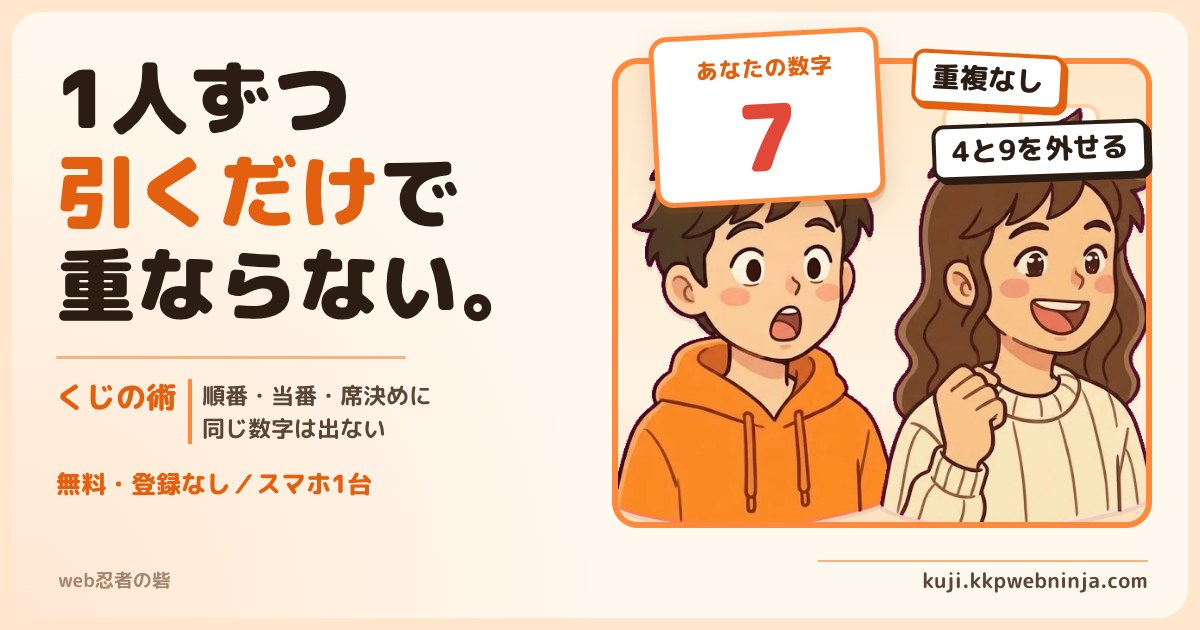
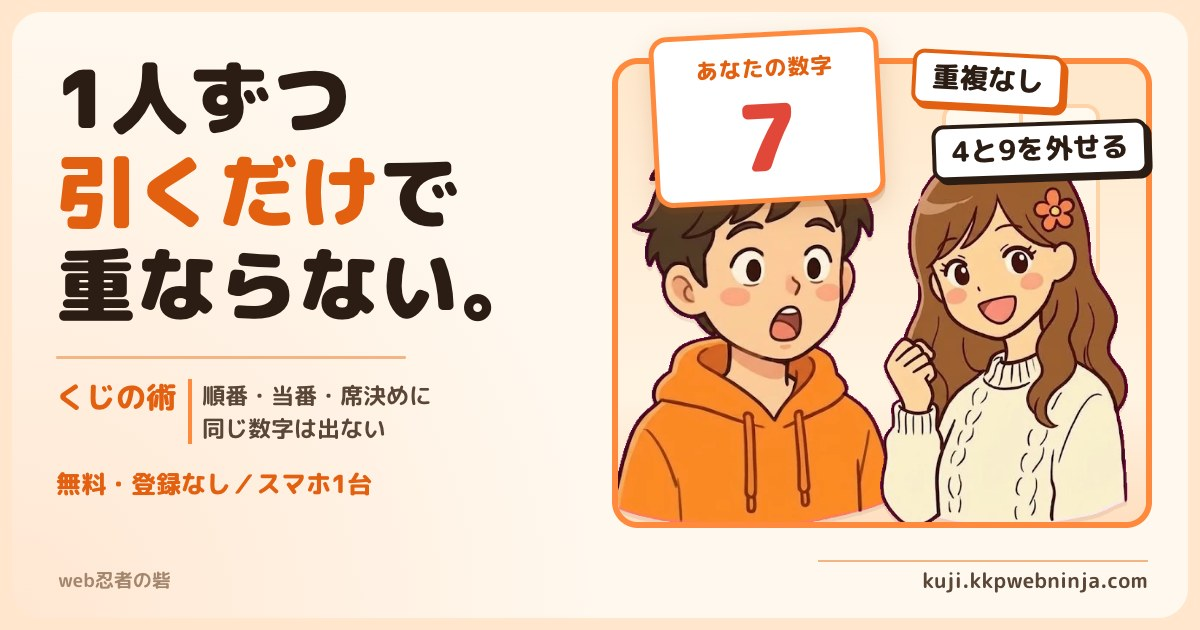
カード画像（OGP）の女の子を、ひと目で女の子と分かる絵に差し替える
男の子と同じ顔に見えていたため、kkp-kit の女の子の素材を作り直して書き出し直した（kkp-kit 978018e）。
og:image・twitter:image の ?d= を 20261023 にして、SNS に新しい画像を読み直させる。

Changed region(s): [[0.7092, 0.2714, 0.9558, 0.8444], [0.8633, 0.181, 0.8942, 0.2111]]

diff --git a/index.html b/index.html
@@ -16,9 +16,9 @@
 <meta property="og:description" content="人数を決めて、あとは1人ずつ引くだけ。同じ数字は出ません。">
 <meta property="og:url" content="https://kuji.kkpwebninja.com/">
 <meta property="og:site_name" content="くじの術">
-<meta property="og:image" content="https://kuji.kkpwebninja.com/ogp.jpg?d=20261022">
+<meta property="og:image" content="https://kuji.kkpwebninja.com/ogp.jpg?d=20261023">
 <meta name="twitter:card" content="summary_large_image">
-<meta name="twitter:image" content="https://kuji.kkpwebninja.com/ogp.jpg?d=20261022">
+<meta name="twitter:image" content="https://kuji.kkpwebninja.com/ogp.jpg?d=20261023">
 <script type="application/ld+json">
 {
   "@context": "https://schema.org",
